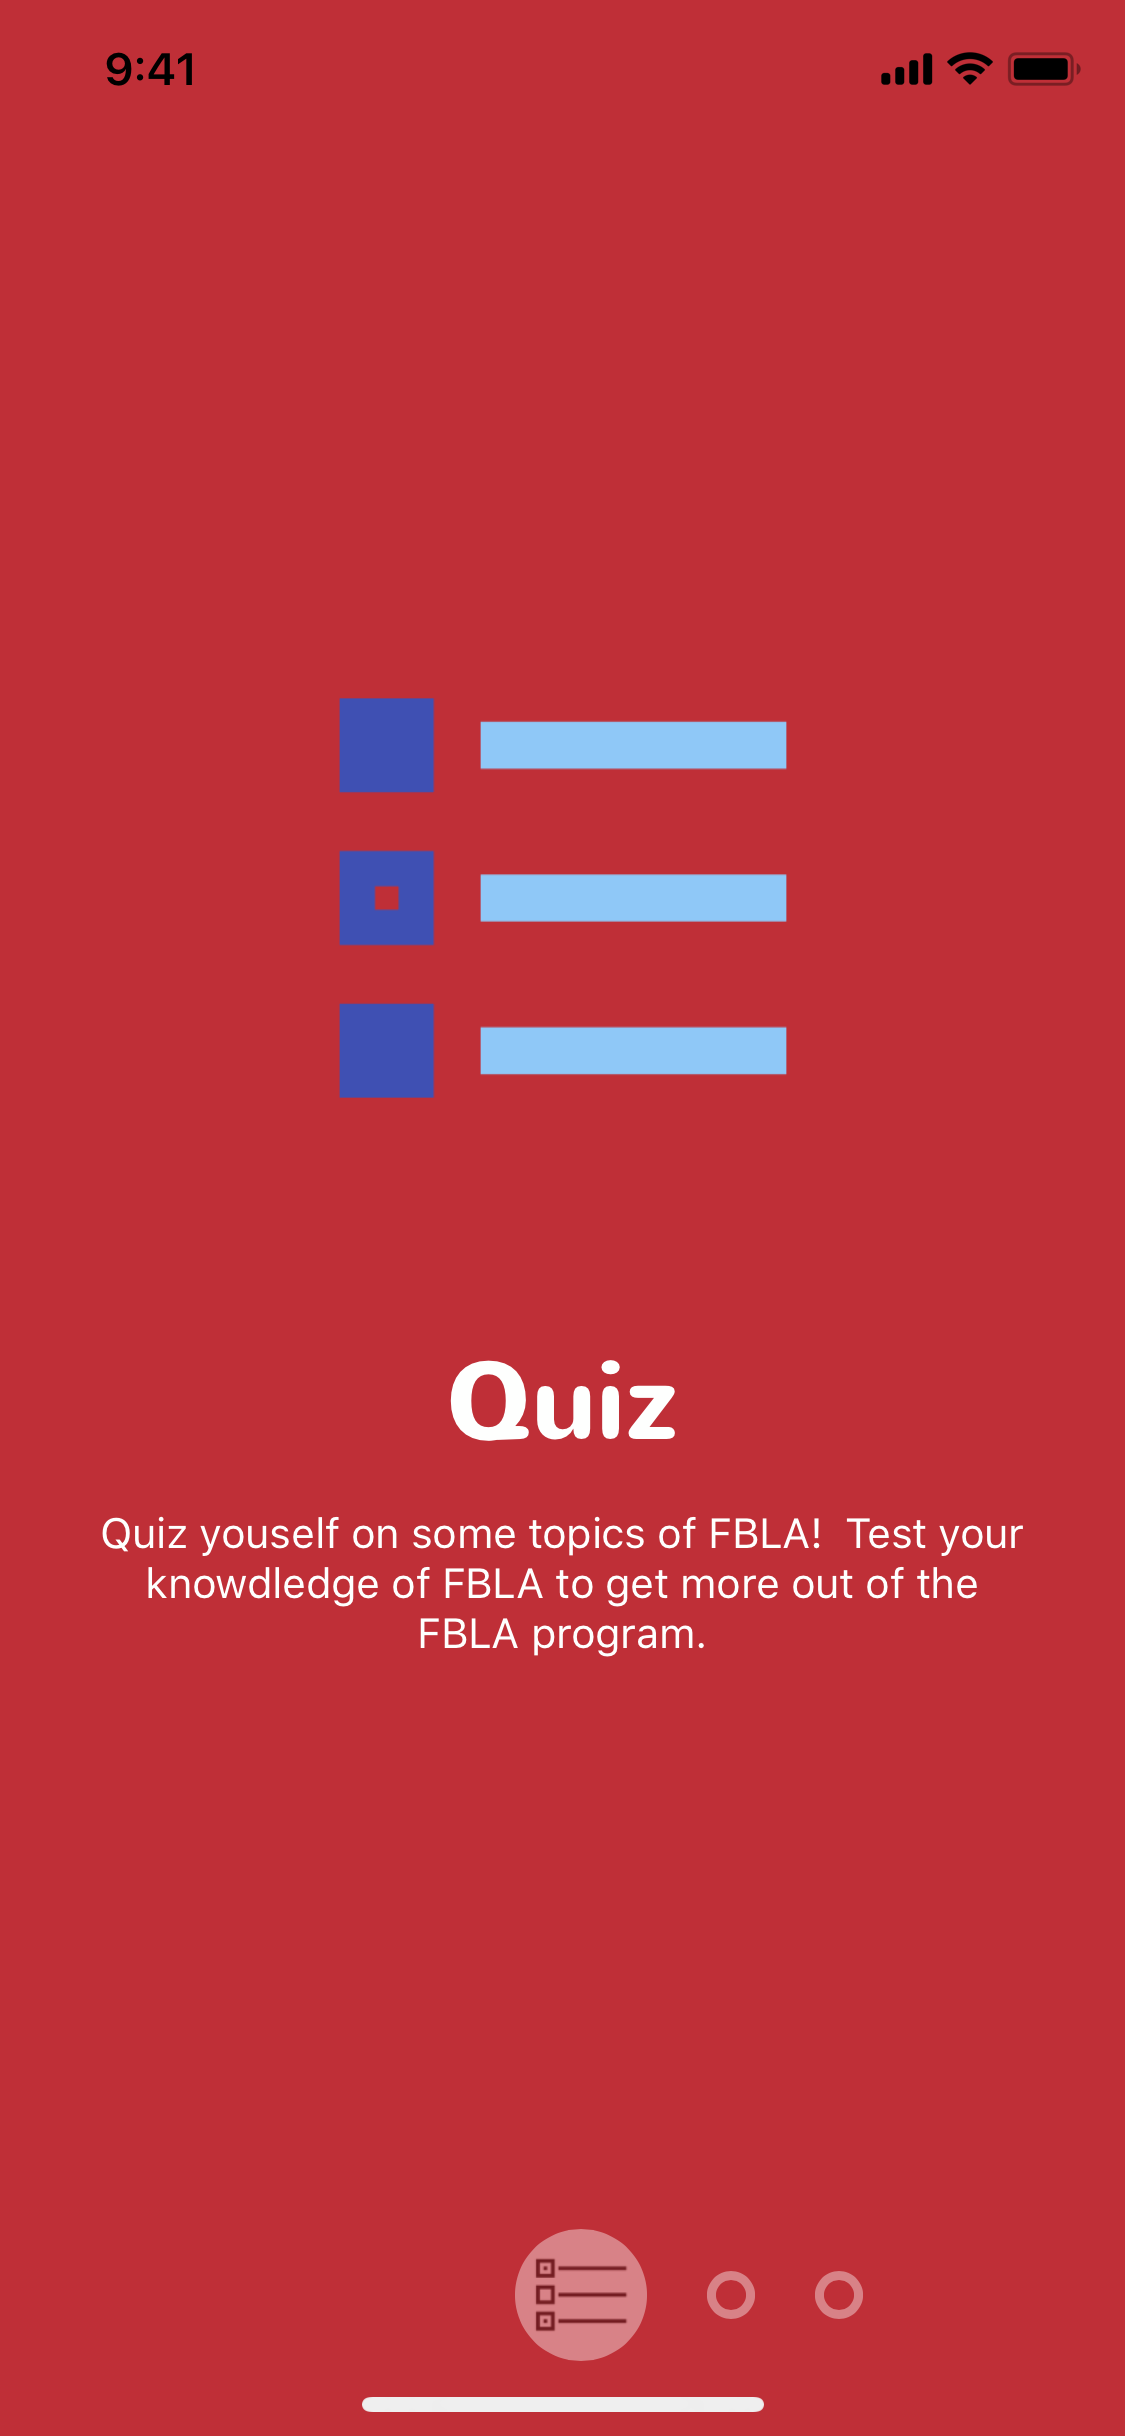
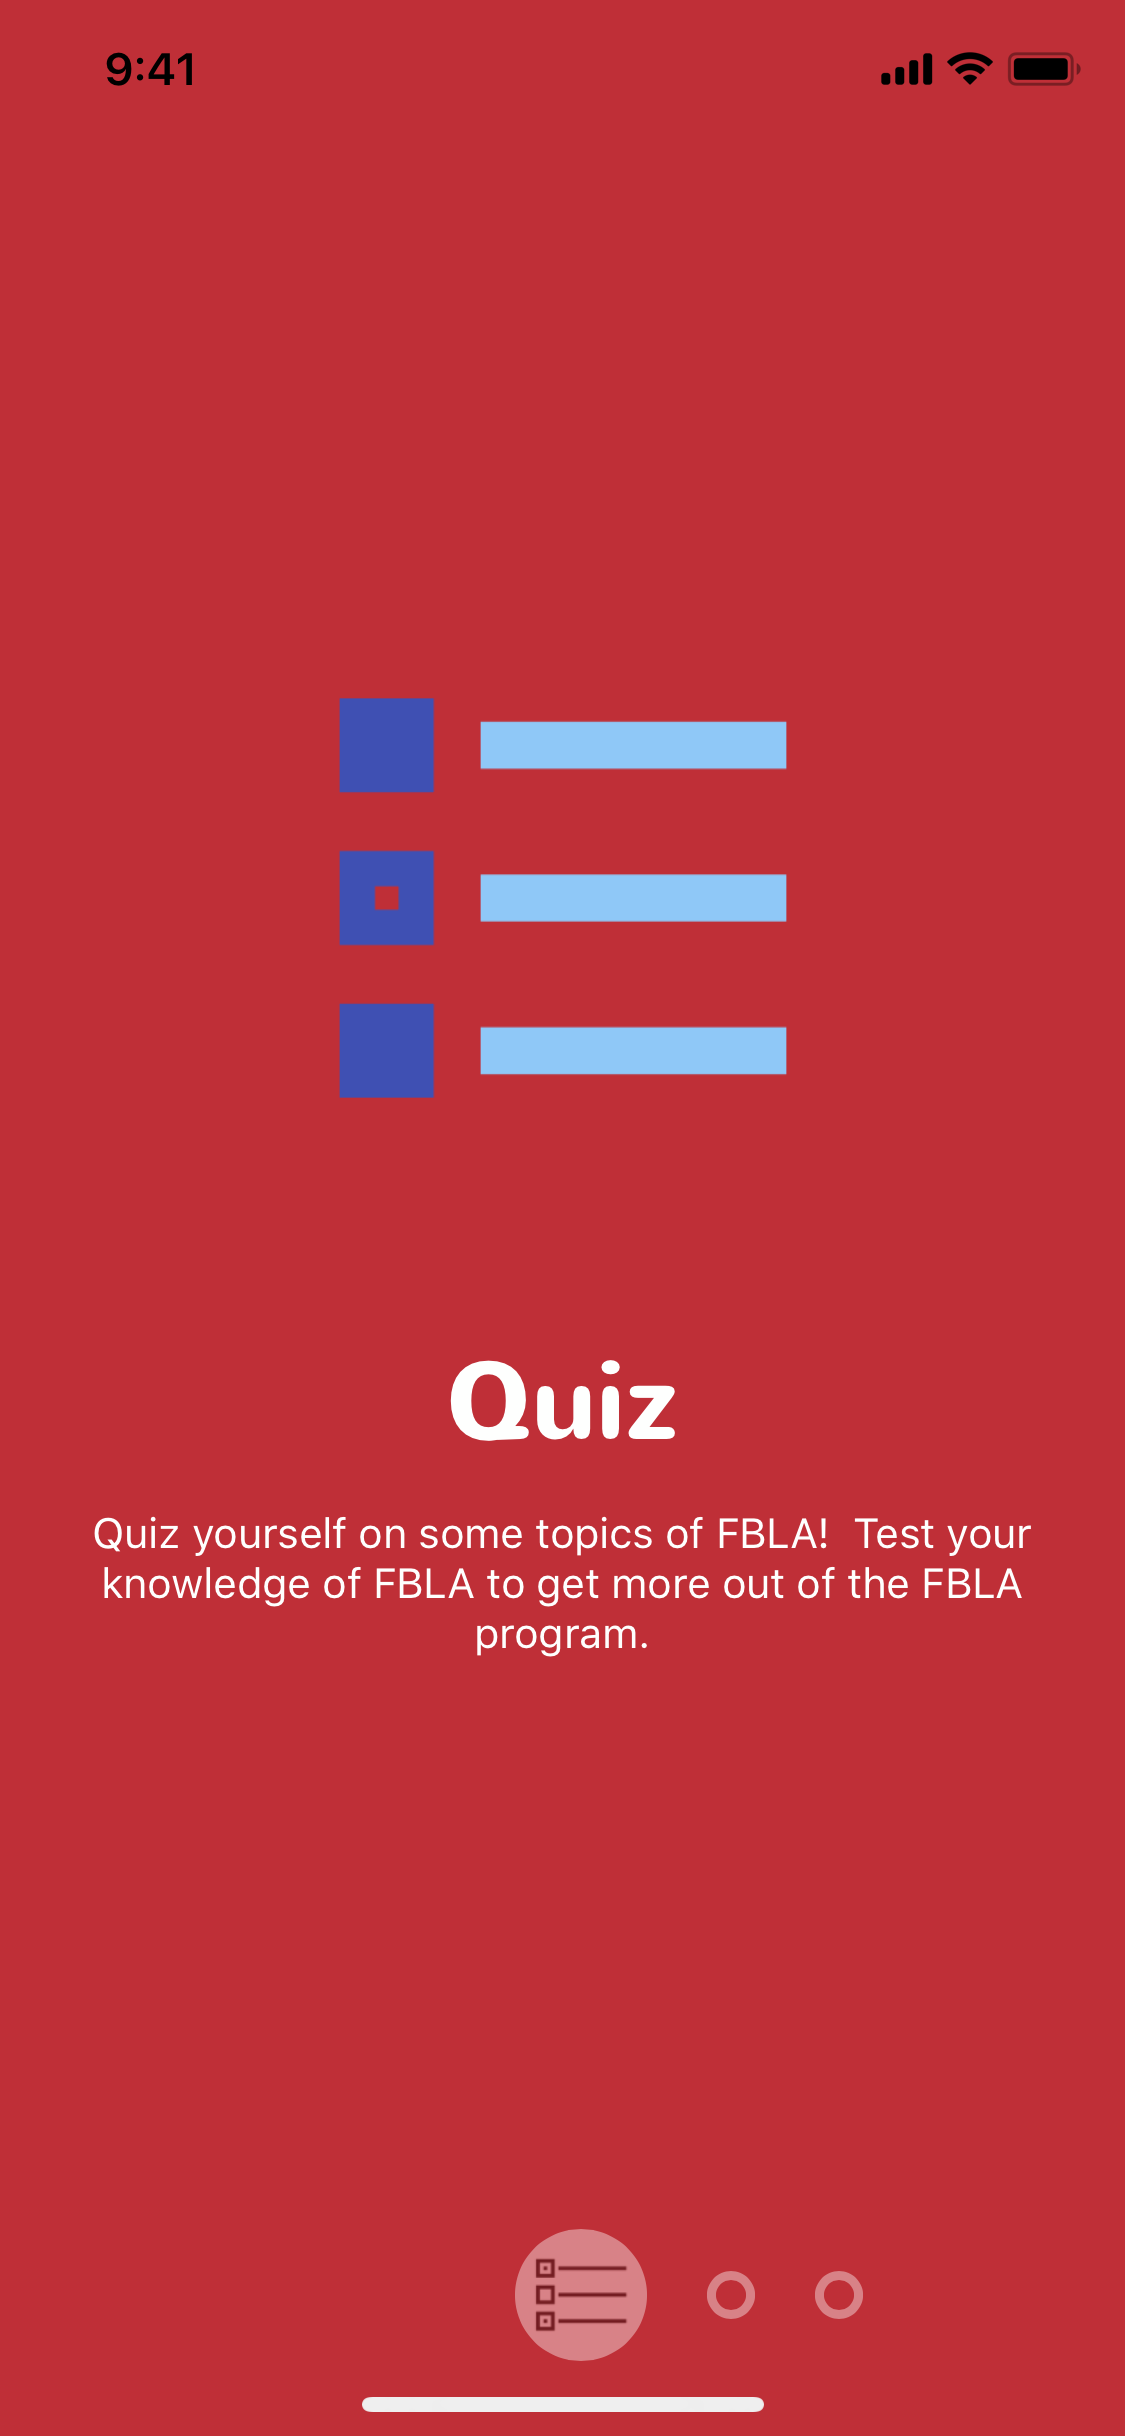
Spelling issues

Changed region(s): [[0.0933, 0.624, 0.9022, 0.6864]]

diff --git a/FBLA/Intro/IntroViewController.swift b/FBLA/Intro/IntroViewController.swift
@@ -21,7 +21,7 @@ class IntroViewController: UIViewController, PaperOnboardingDelegate, PaperOnboa
     //Add the following items to the onboarding view (to be shown to the user).
     let onBoardItem: OnboardingItemInfo = OnboardingItemInfo(informationImage: UIImage(named: "intro-quiz")!,
                         title: "Quiz",
-                        description: "Quiz youself on some topics of FBLA!  Test your knowdledge of FBLA to get more out of the FBLA program.",
+                        description: "Quiz yourself on some topics of FBLA!  Test your knowledge of FBLA to get more out of the FBLA program.",
                         pageIcon: UIImage(named: "intro-quiz-bottom")!,
                         color: UIColor.init(named: "PrimaryRed")!,
                         titleColor: UIColor.white, descriptionColor: UIColor.white, titleFont: titleFont, descriptionFont: descriptionFont)

diff --git a/FBLA/Quiz/Questions/Models/Questions.swift b/FBLA/Quiz/Questions/Models/Questions.swift
@@ -60,7 +60,7 @@ struct questions {
     
     struct businessSkills {
         static let question1 = Question(
-            question: "What is NOT a good characteristic of successful business person?",
+            question: "What is NOT a good characteristic of a successful business person?",
             answers: [
                 Answer(answer: "Not a team worker", isRight: true),
                 Answer(answer: "Trustworthy", isRight: false),
@@ -231,7 +231,7 @@ struct questions {
             ]
         )
         static let question4 = Question(
-            question: "In 1958 the what division, Phi Beta Lambda, is created?",
+            question: "In 1958 what division of Phi Beta Lambda was created?",
             answers: [
                 Answer(answer: "Postsecondary", isRight: true),
                 Answer(answer: "Elementary", isRight: true),
